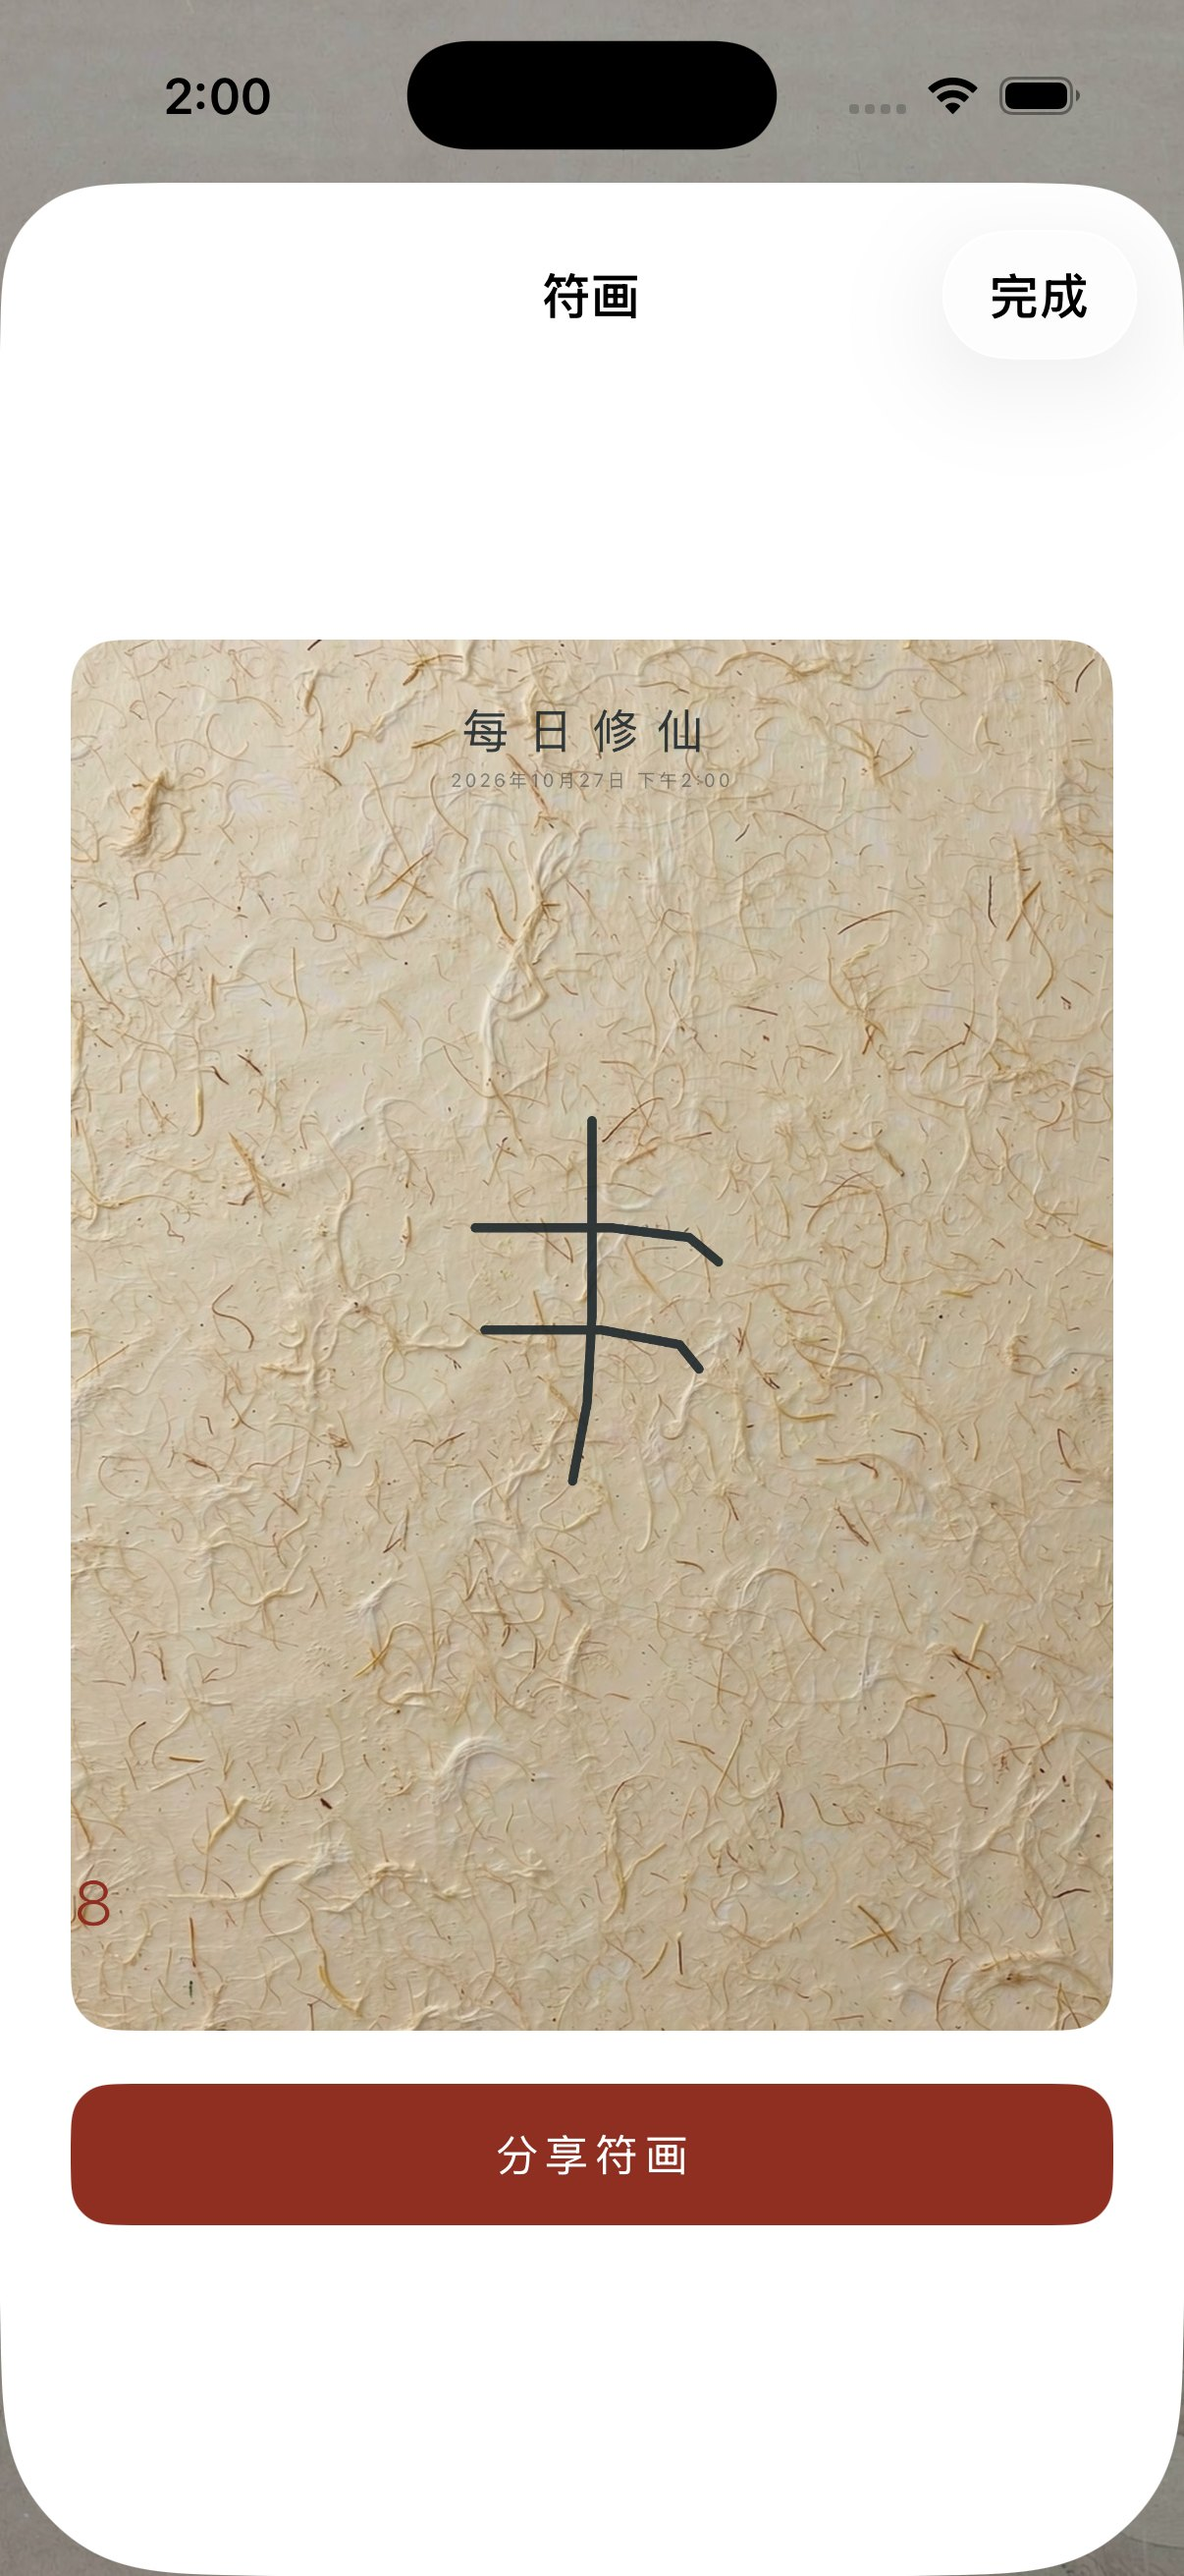
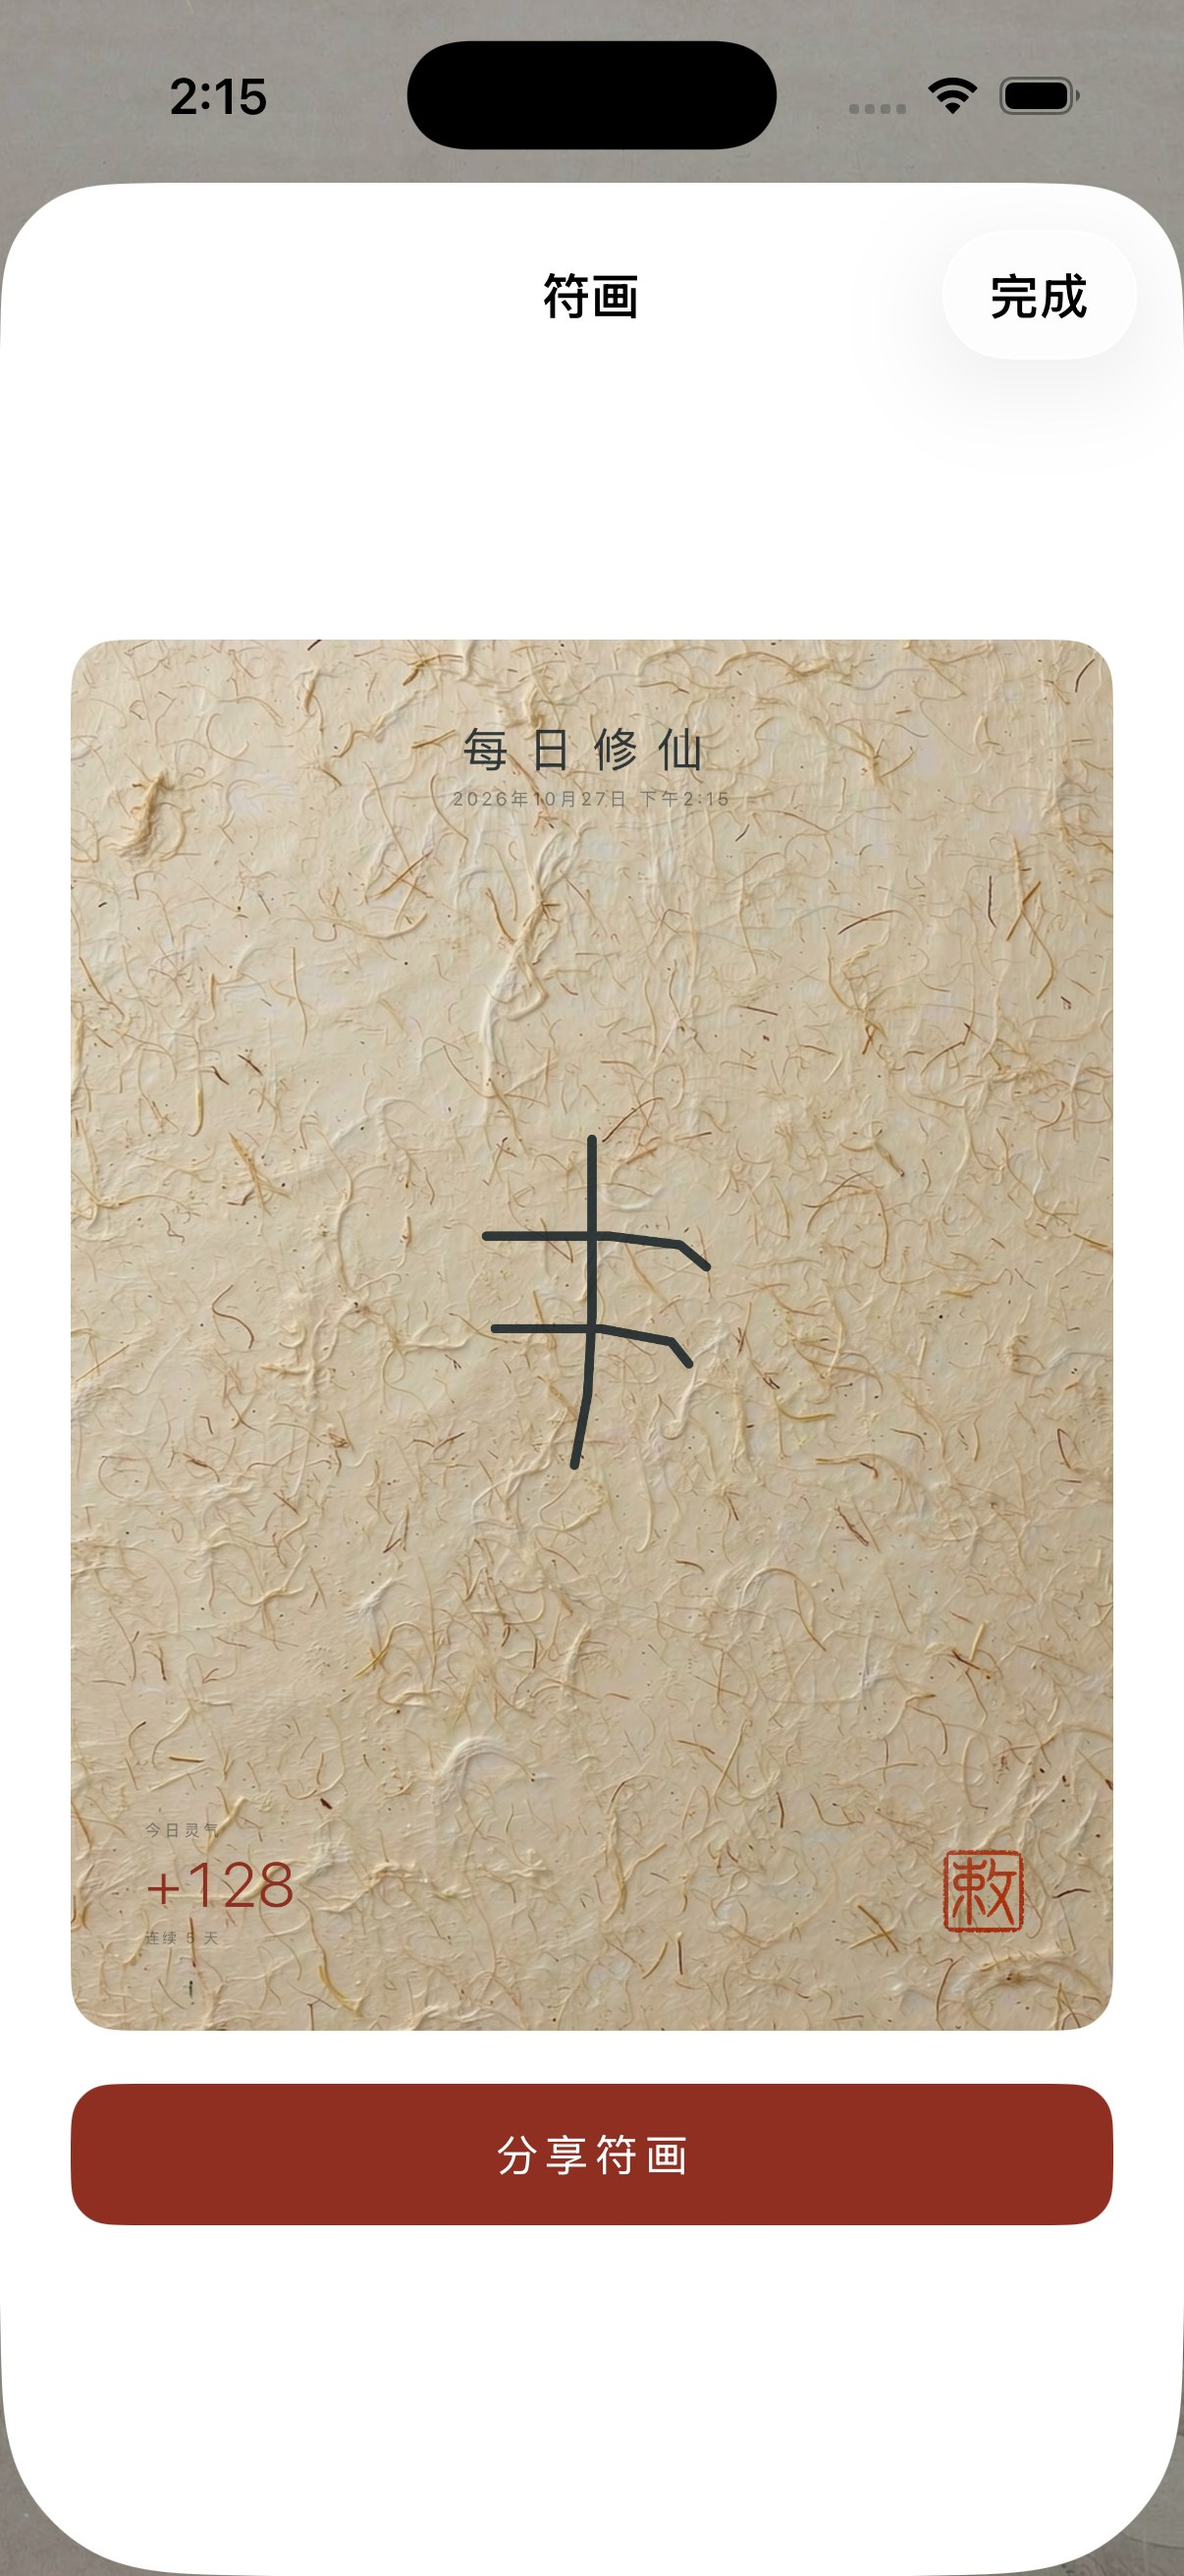
fix(ios): 符画加纸纹压光，底部文字不再被纸纹吃掉

diff --git a/ios/DailyCultivation/Ritual/SettlementView.swift b/ios/DailyCultivation/Ritual/SettlementView.swift
@@ -133,6 +133,17 @@ struct ShareCard: View {
             .frame(width: cardSize.width, height: cardSize.height)
             .clipped()
 
+            // 纸纹太花，压一层由白到透明的渐变，字才压得住
+            LinearGradient(stops: [
+                .init(color: .white.opacity(0.60), location: 0.00),
+                .init(color: .white.opacity(0.18), location: 0.14),
+                .init(color: .white.opacity(0.00), location: 0.34),
+                .init(color: .white.opacity(0.00), location: 0.62),
+                .init(color: .white.opacity(0.30), location: 0.86),
+                .init(color: .white.opacity(0.55), location: 1.00)
+            ], startPoint: .top, endPoint: .bottom)
+            .frame(width: cardSize.width, height: cardSize.height)
+
             VStack(spacing: 0) {
                 Text("每日修仙")
                     .font(.custom("Songti SC", size: 40))
@@ -142,8 +153,8 @@ struct ShareCard: View {
                 Text(date, format: .dateTime.year().month().day().hour().minute())
                     .font(.system(size: 16))
                     .tracking(3)
-                    .foregroundStyle(ink.opacity(0.45))
-                    .padding(.top, 10)
+                    .foregroundStyle(ink.opacity(0.55))
+                    .padding(.top, 20)
 
                 Spacer(minLength: 0)
 
@@ -157,7 +168,7 @@ struct ShareCard: View {
                         Text("今日灵气")
                             .font(.system(size: 14))
                             .tracking(3)
-                            .foregroundStyle(ink.opacity(0.45))
+                            .foregroundStyle(ink.opacity(0.6))
                         Text("+\(qi)")
                             .font(.system(size: 54, weight: .light))
                             .monospacedDigit()
@@ -165,7 +176,7 @@ struct ShareCard: View {
                         Text("连续 \(streak) 天")
                             .font(.system(size: 13))
                             .tracking(2)
-                            .foregroundStyle(ink.opacity(0.4))
+                            .foregroundStyle(ink.opacity(0.55))
                     }
                     Spacer()
                     if UIImage(named: "seal_chi") != nil {

diff --git a/tools/to_jpg.py b/tools/to_jpg.py
@@ -1,9 +1,9 @@
 
 from PIL import Image
 import os
-d = r"F:\MyApp\eternal\shots-tmp2"
+d = r"F:\MyApp\eternal\shots-tmp3"
 out = r"F:\MyApp\eternal\DailyCultivation\prototype\screens"
-for name, target in [("shot-share.png","ios-share.jpg"), ("shot-resting.png","ios-resting.jpg"), ("shot-history.png","ios-history.jpg")]:
+for name, target in [("shot-share.png","ios-share.jpg")]:
     im = Image.open(os.path.join(d, name)).convert("RGB")
-    im.save(os.path.join(out, target), "JPEG", quality=86, optimize=True)
+    im.save(os.path.join(out, target), "JPEG", quality=88, optimize=True)
     print(target, im.size)
